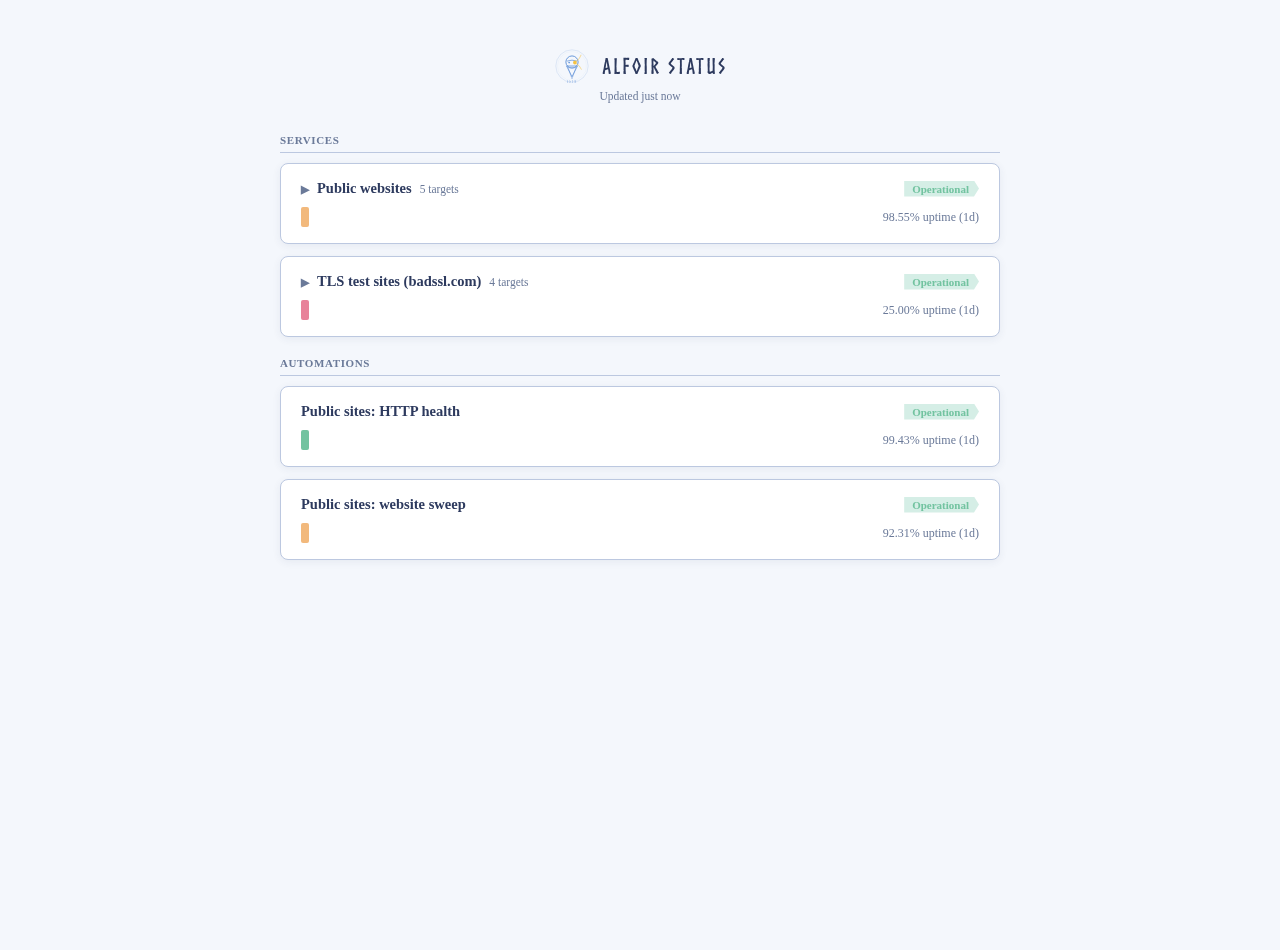
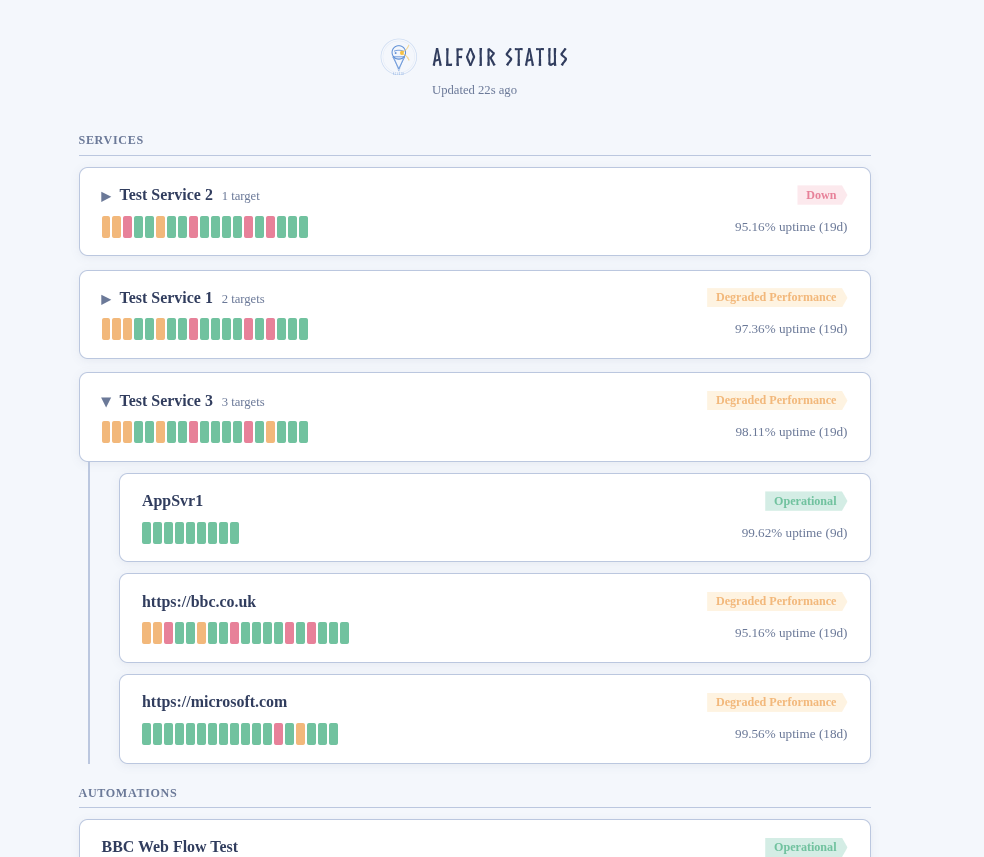
Alfoir: a status page with three weeks of history

diff --git a/alfoir/README.md b/alfoir/README.md
@@ -131,7 +131,7 @@ The optional public **status page** shows the state of services, each a group of
 
 ![The public status page](images/14-status-page.png)
 
-*The badssl.com group is "operational" at 25% uptime because its rule is "at least one site up", and only the control site ever passes.*
+*From a demo instance with three weeks of history: three services over 19 days, one down and two degraded. Expanding a service shows each member's own record; the BBC site's dips are what hold its service at 98.11%.*
 
 ---
 
@@ -178,4 +178,4 @@ One container with PostgreSQL, the Node.js backend and the web UI behind nginx, 
 
 ## Status
 
-Alfoir is under active development. A unit-test suite runs with every change, regression tests run catalog checks against real containers, and the catalog's scripts are checked against real systems before they ship. Everything in this overview was captured from one running instance on a home PC, checking public websites and badssl.com's deliberately broken sites from the PC and a laptop over one evening.
+Alfoir is under active development. A unit-test suite runs with every change, regression tests run catalog checks against real containers, and the catalog's scripts are checked against real systems before they ship. Everything in this overview was captured from one running instance on a home PC, checking public websites and badssl.com's deliberately broken sites from the PC and a laptop over one evening, except the status page, taken from a demo instance with more history.
